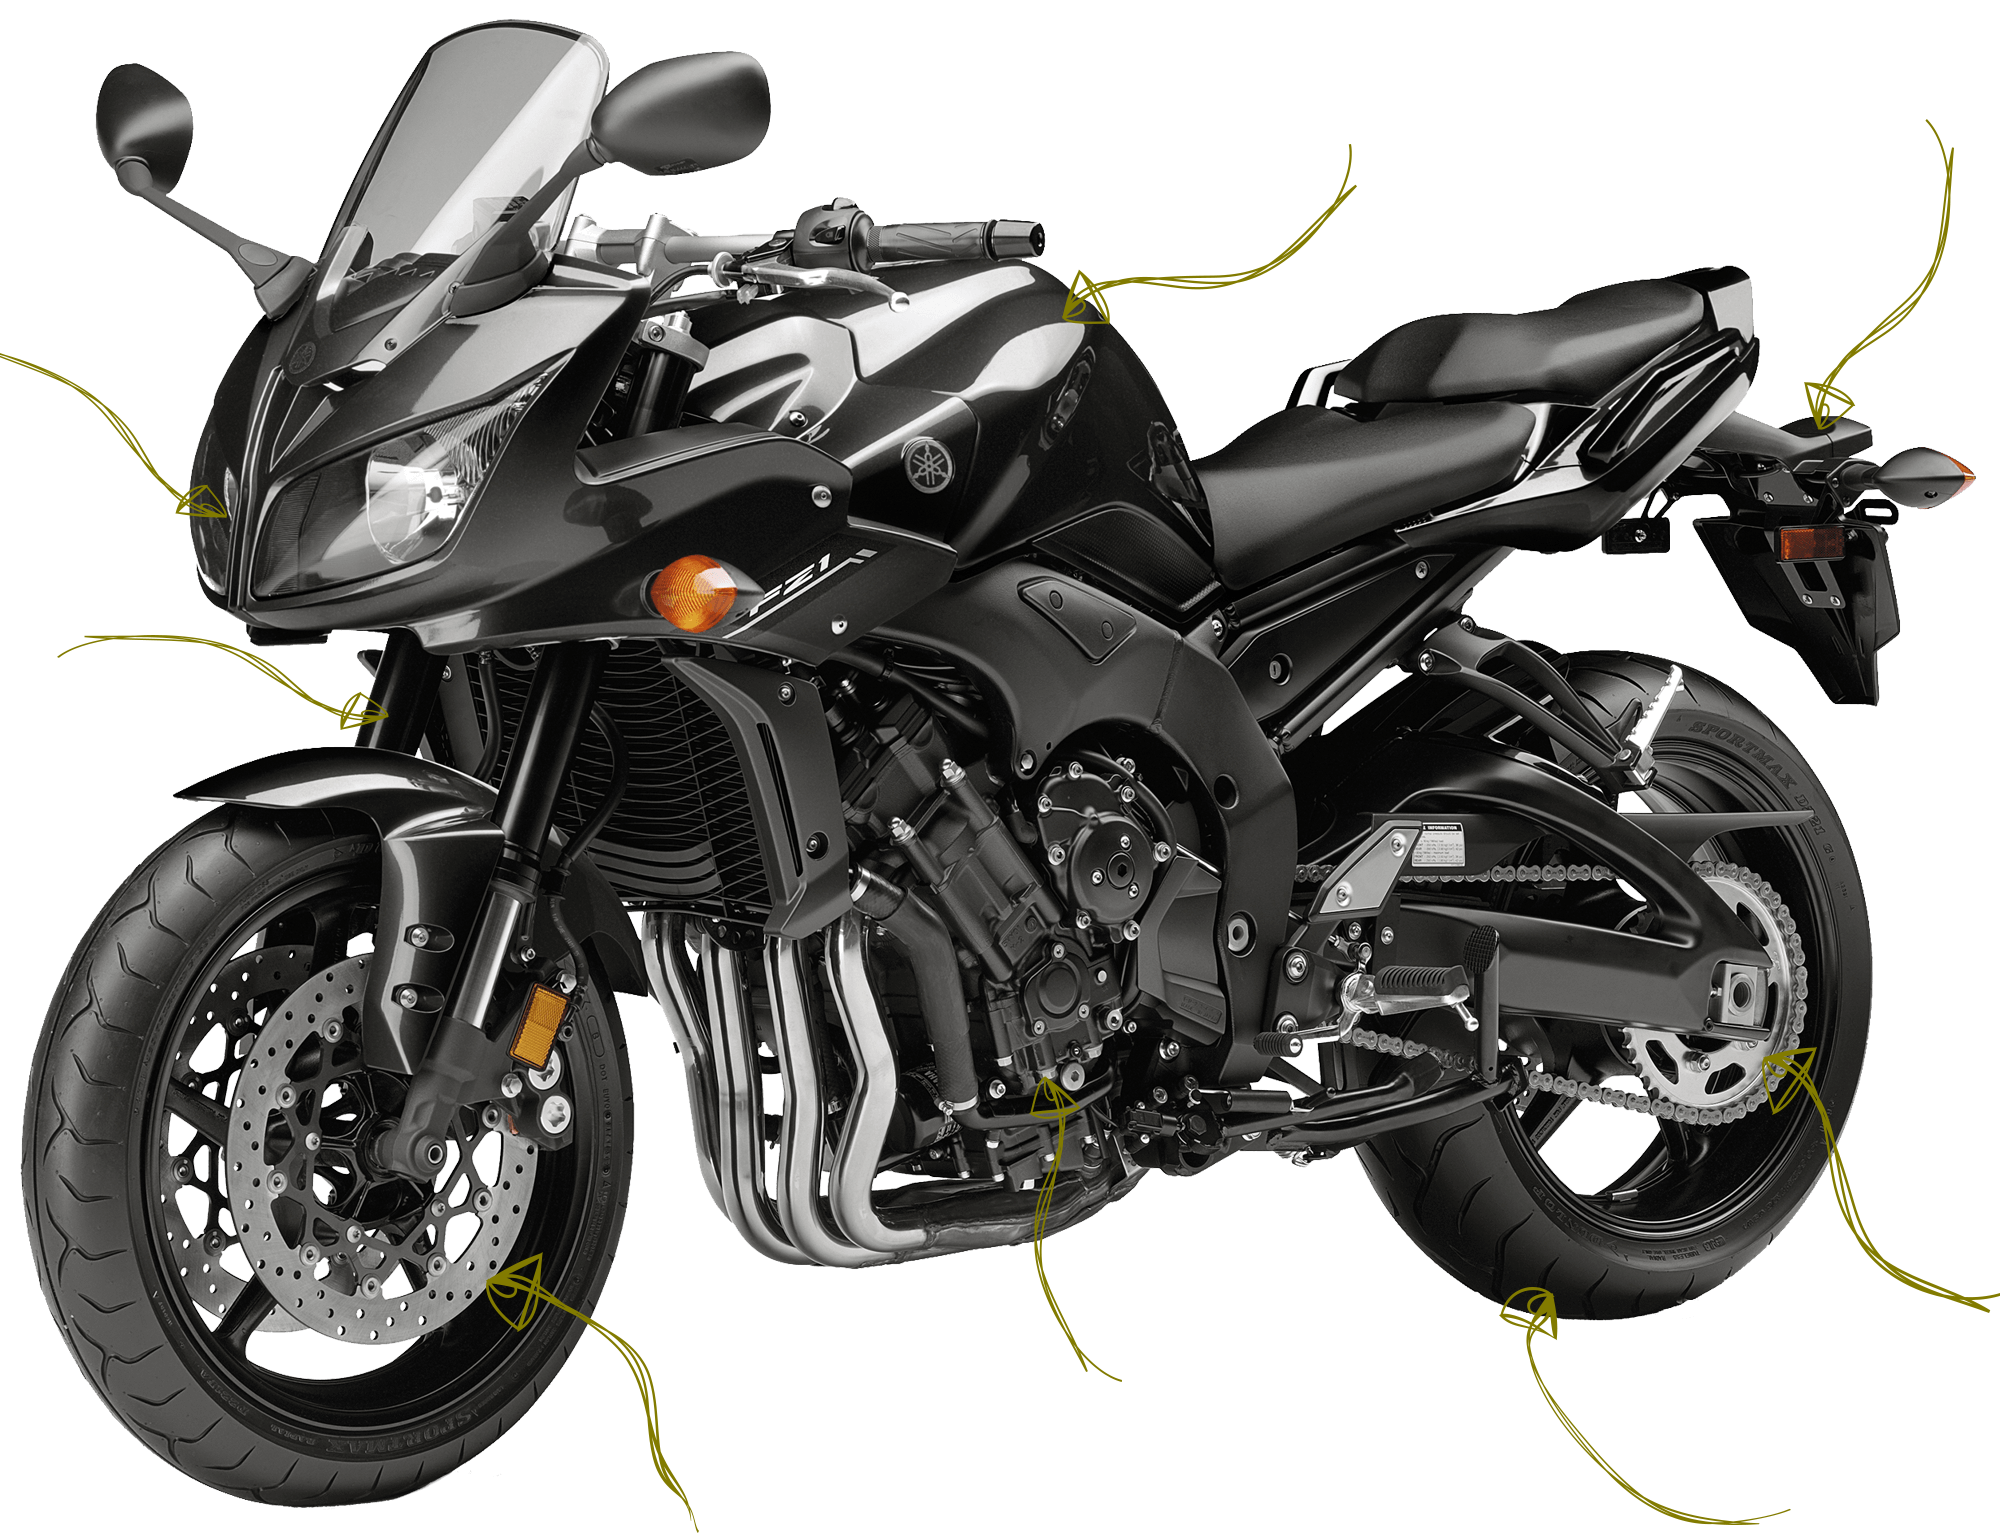
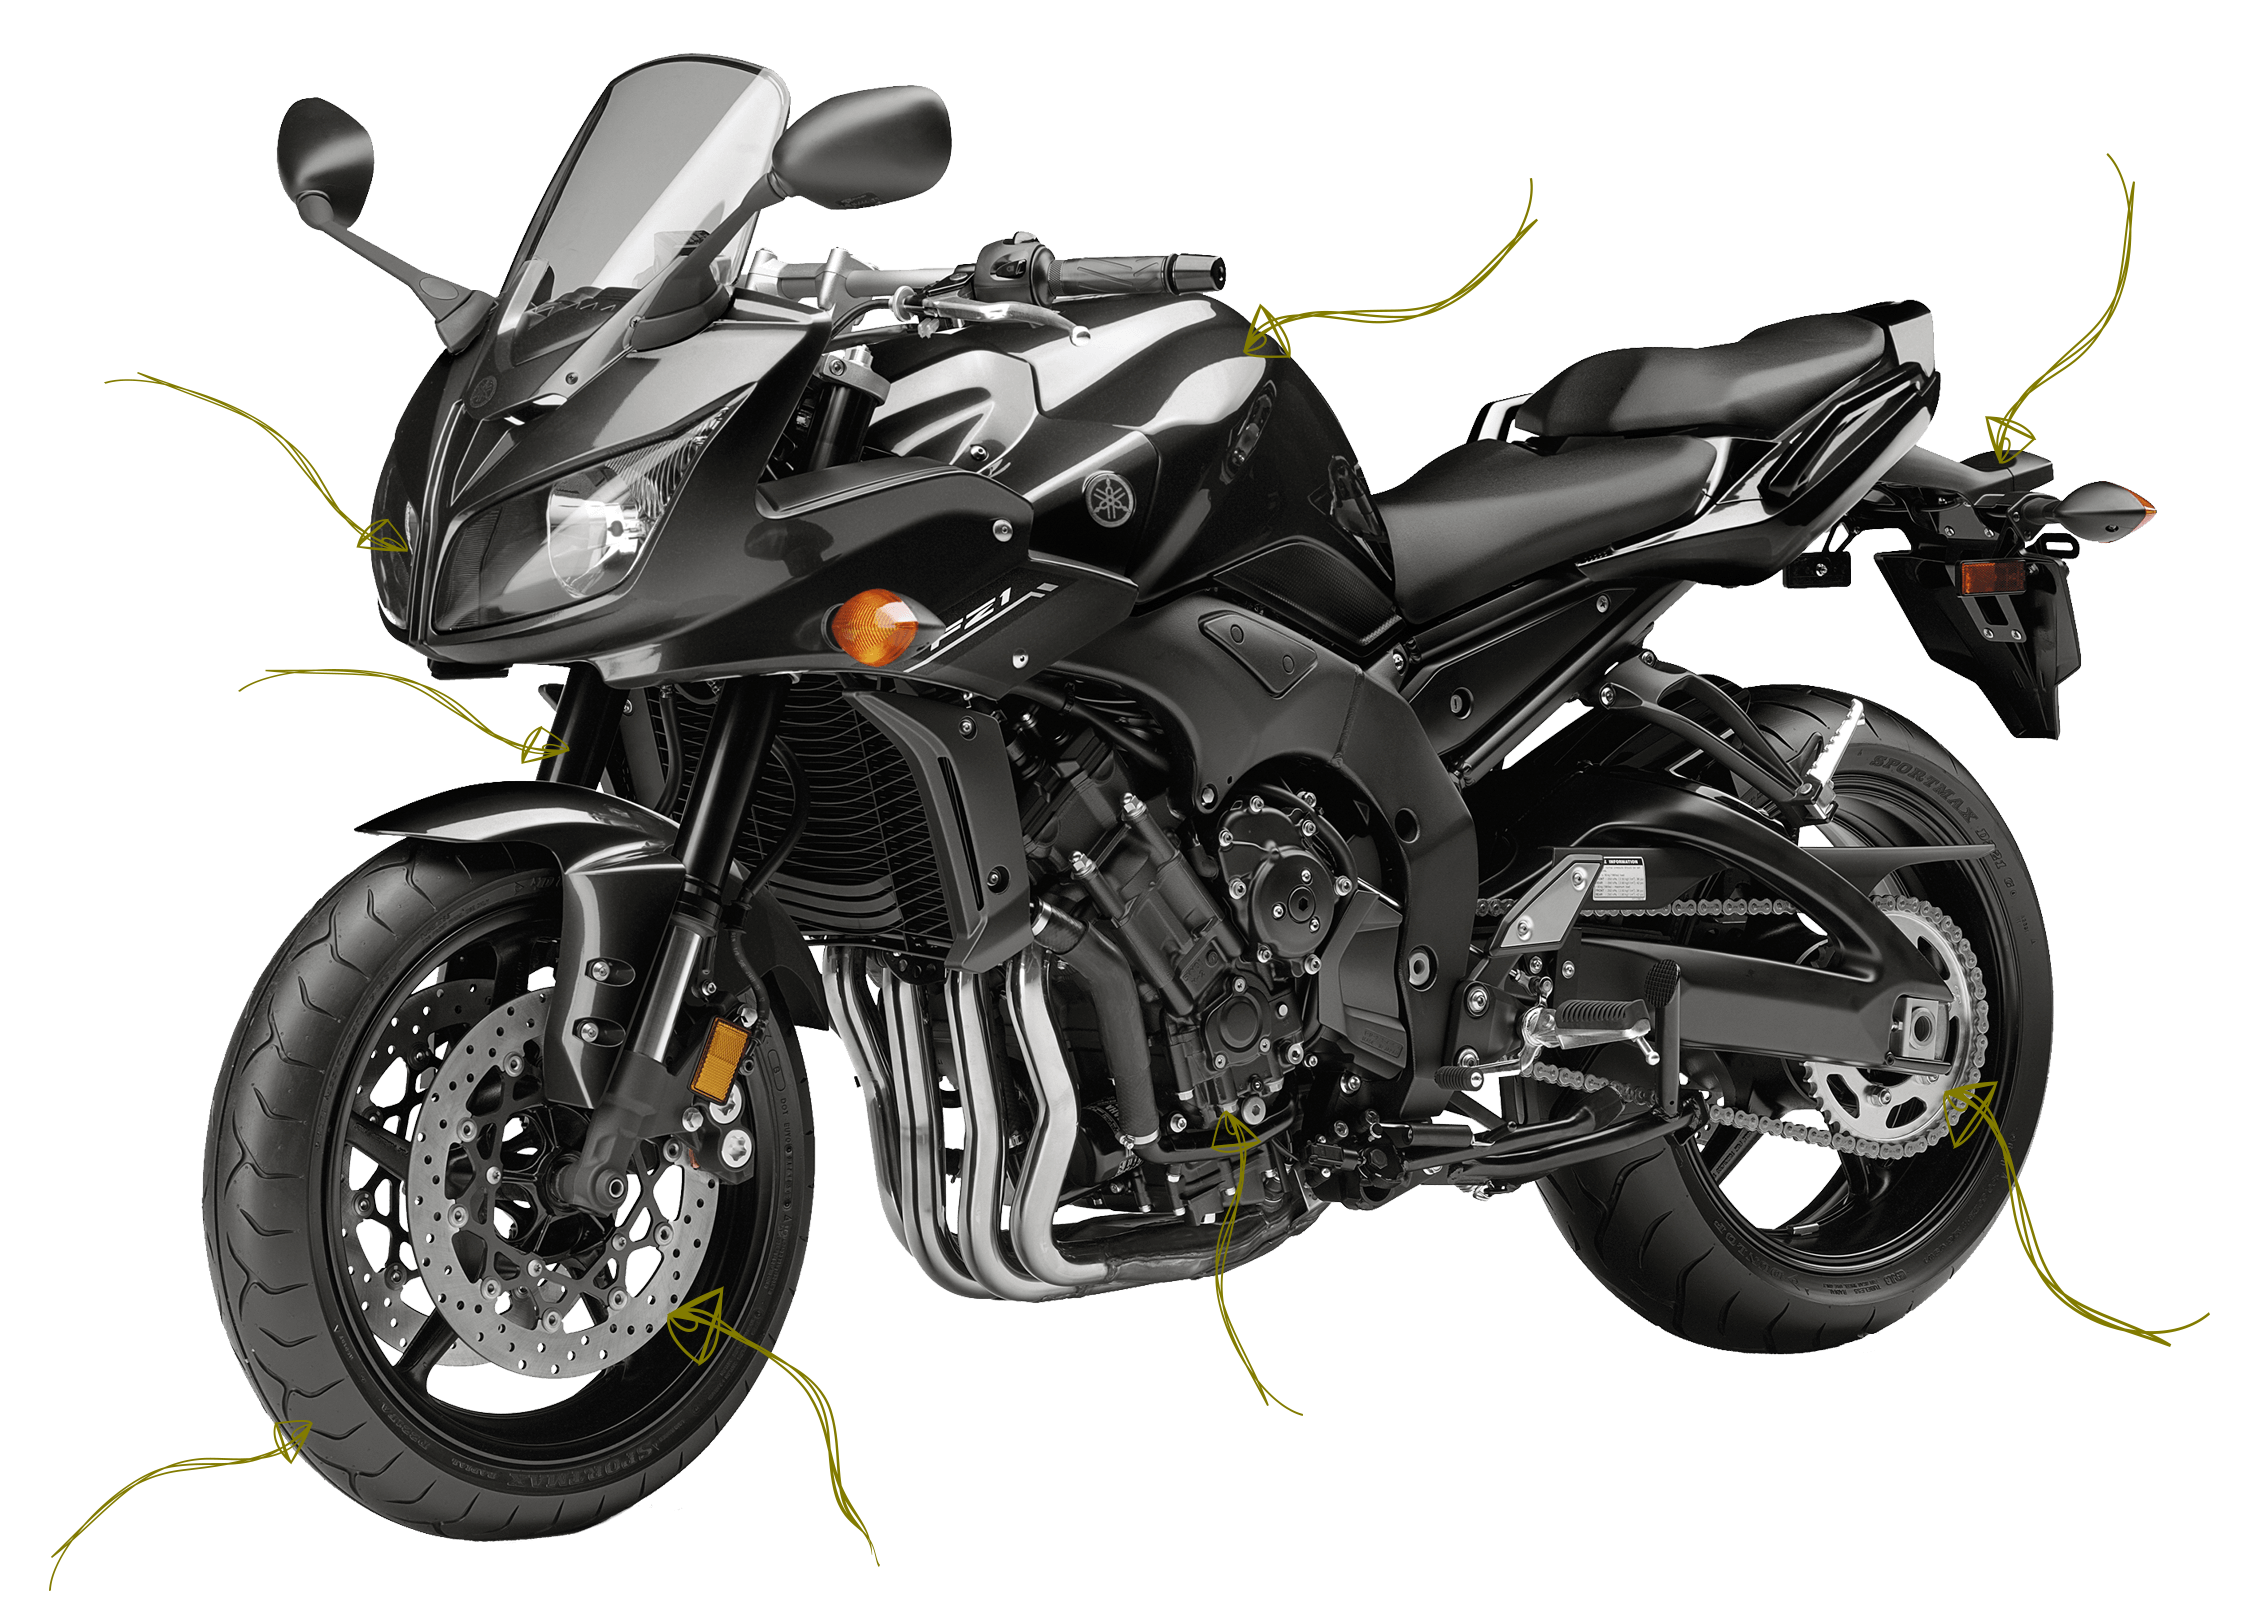
Más avances

diff --git a/index.html b/index.html
@@ -1,23 +1,31 @@
 <!DOCTYPE html>
 <html lang="es">
+
 <head>
     <meta charset="UTF-8">
     <meta name="viewport" content="width=device-width, initial-scale=1.0">
     <title>ManteniMoto</title>
     <link rel="stylesheet" href="https://cdn.jsdelivr.net/npm/bootstrap@5.2.3/dist/css/bootstrap.min.css">
+    <link rel="stylesheet" href="https://use.fontawesome.com/releases/v5.5.0/css/all.css"
+        integrity="sha384-B4dIYHKNBt8Bc12p+WXckhzcICo0wtJAoU8YZTY5qE0Id1GSseTk6S+L3BlXeVIU" crossorigin="anonymous">
+    <link rel="stylesheet" href="https://fonts.googleapis.com/css?family=Sofia|Audiowide&effect=fire|neon">
     <link rel="stylesheet" href="pruebas.css">
     <link rel="stylesheet" href="estilos.css">
 </head>
+
 <body class="container-fluid p-0 d-flex min-vh-100 flex-column">
     <header>
-        <h1>ManteniMoto</h1>
+        <h1 class="font-effect-neon p-2">ManteniMoto</h1>
     </header>
     <main class="flex-grow-1 row">
         <section id="moto" class="col-10">
-                       
+
         </section>
-        <aside class="col-2 d-flex flex-column p-0 justify-content-end">
-            <input id="buscador" type="search">
+        <aside class="col-2 d-flex flex-column p-0 justify-content-start">
+            <div class="d-flex">
+                <input class="form-control me-2" type="search" placeholder="Search" aria-label="Search">
+                <button class="btn btn-outline-success" type="submit"><i class="fas fa-search"></i></button>
+            </div>
             <table>
                 <tbody>
                     <tr>
@@ -41,4 +49,5 @@
         </aside>
     </main>
 </body>
+
 </html>

diff --git a/pruebas.css b/pruebas.css
@@ -1,15 +1,19 @@
 header {
-    background-color: red;
+    background-color: grey;
 }
 
 body {
-    background-color: yellow;
+    background-color: red;
 }
 
 main {
-    background-color: green;
+    background-color: yellow;
 }
 
 table {
     background-color: violet;
+}
+
+aside {
+    background-color: aqua;
 }

diff --git a/estilos.css b/estilos.css
@@ -1,4 +1,17 @@
 #moto {
     background-image: url('img/Moto.png');
-    
+    background-size: 65%;
+    background-repeat: no-repeat;
+    background-position: center;
+
+}
+
+header {
+    font-family: "Audiowide", sans-serif;
+    font-size: 45px;
+    text-align: center;
+}
+
+h1 {
+    font-size: 2em;
 }
